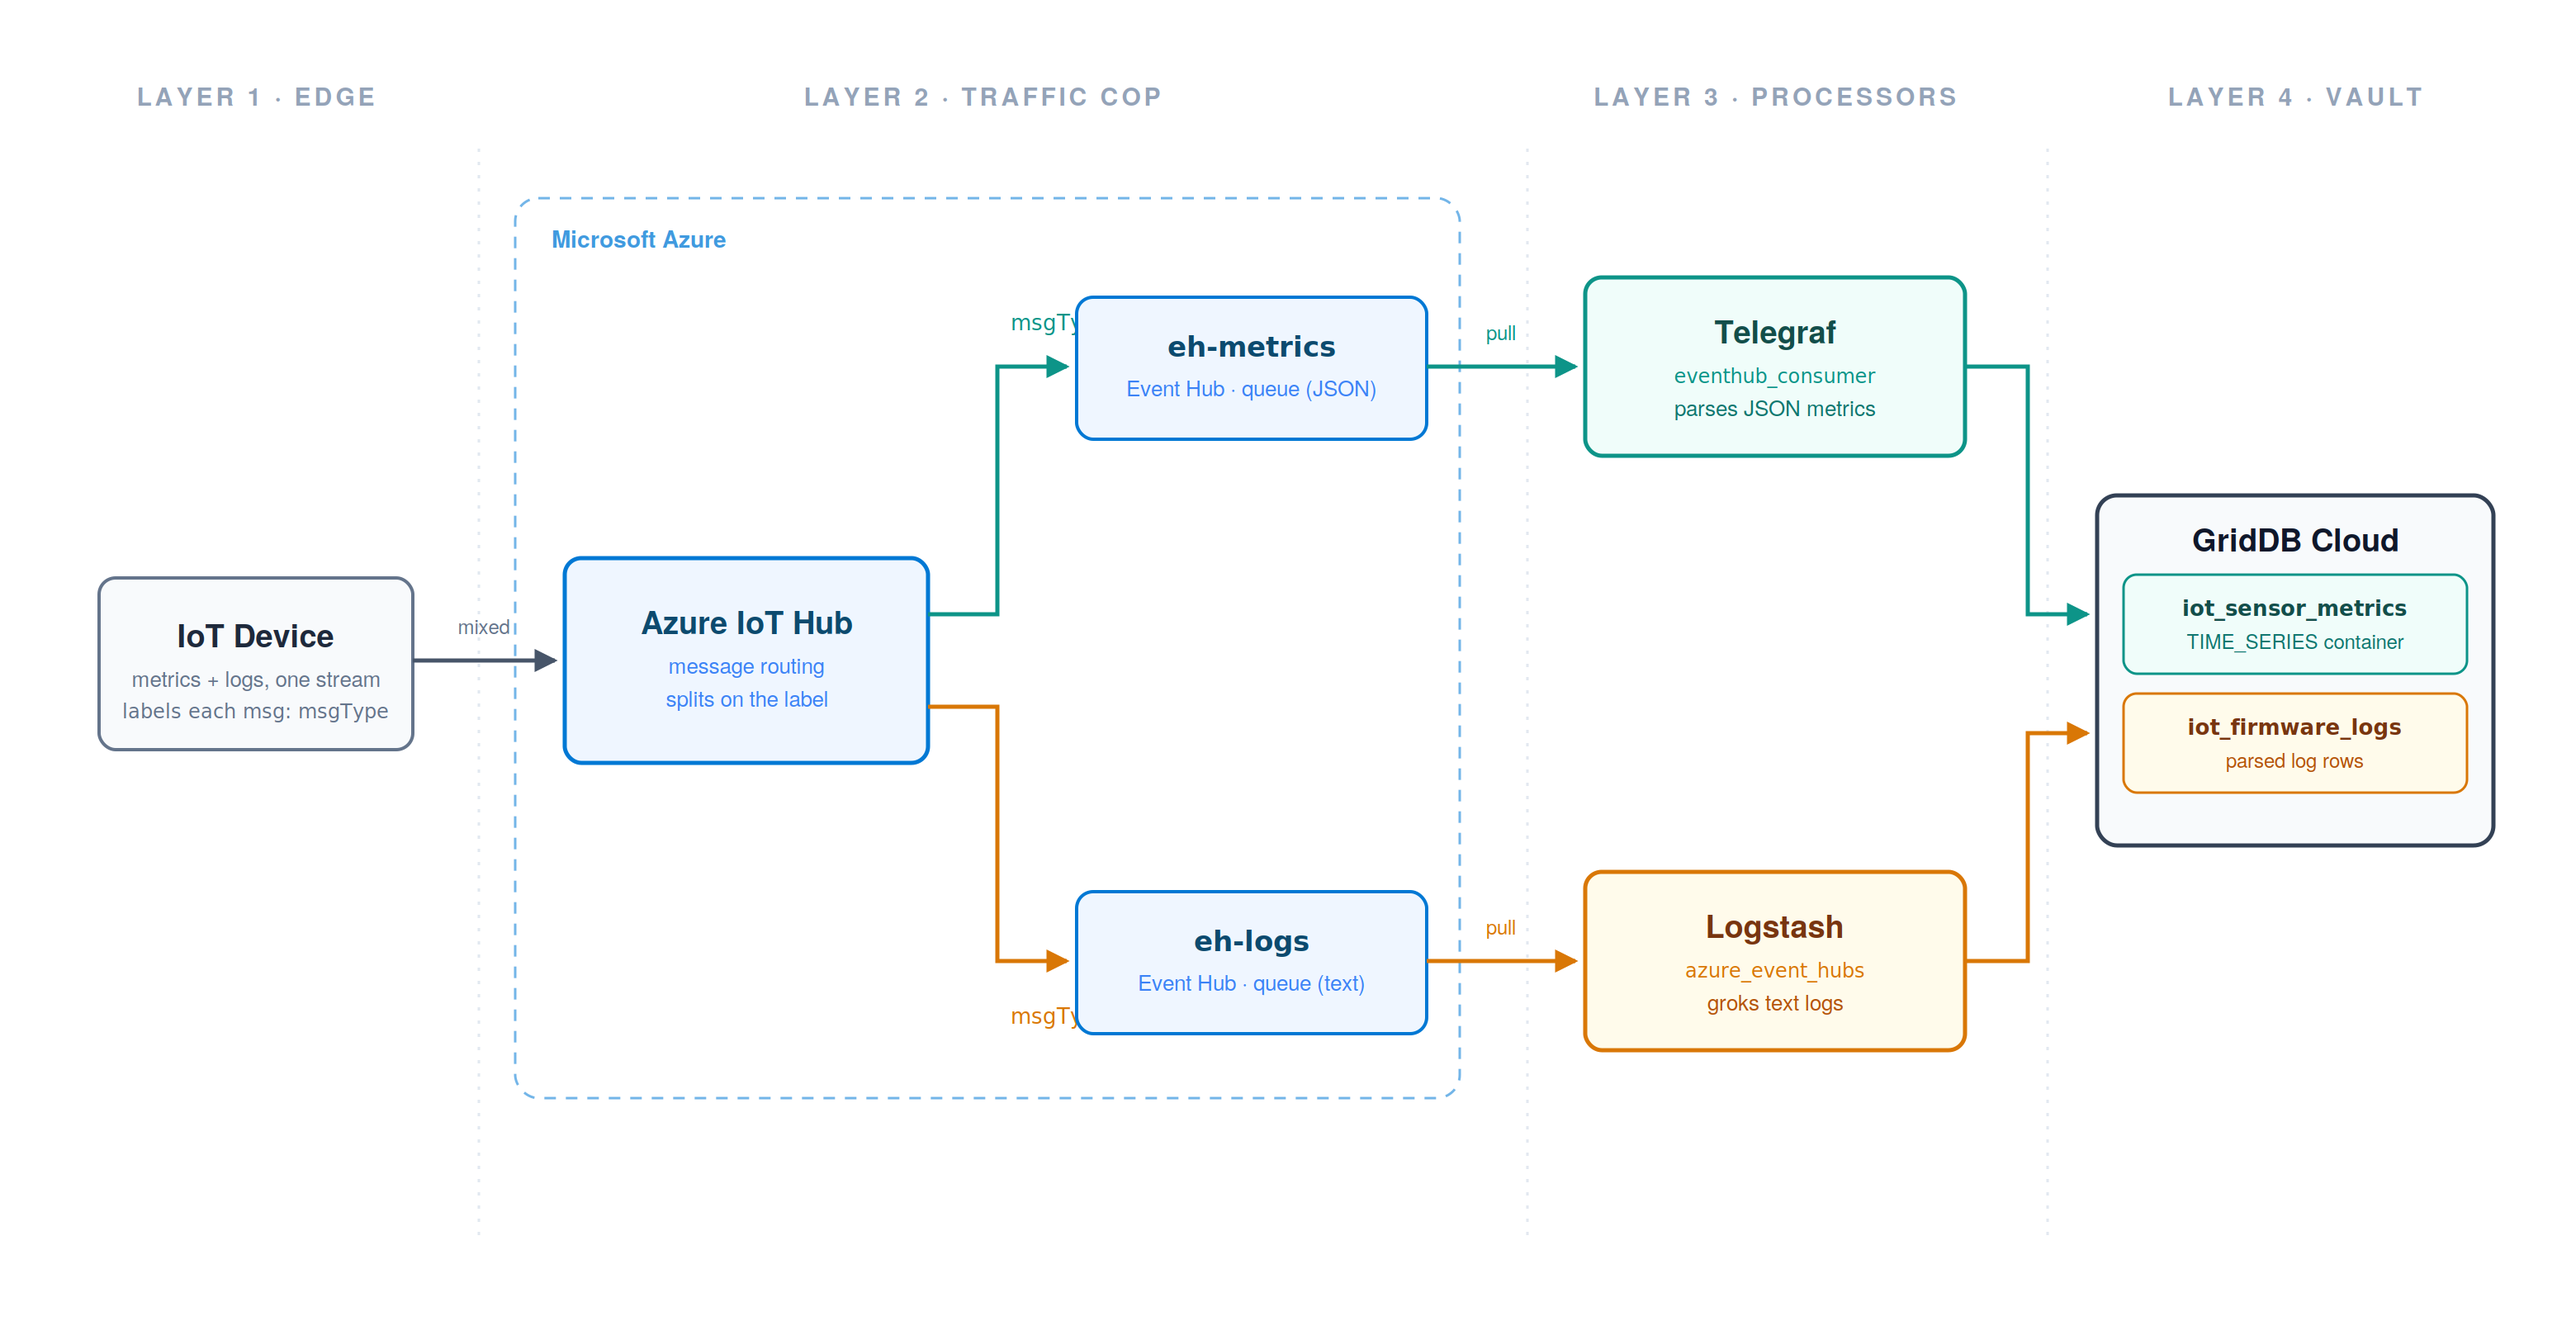
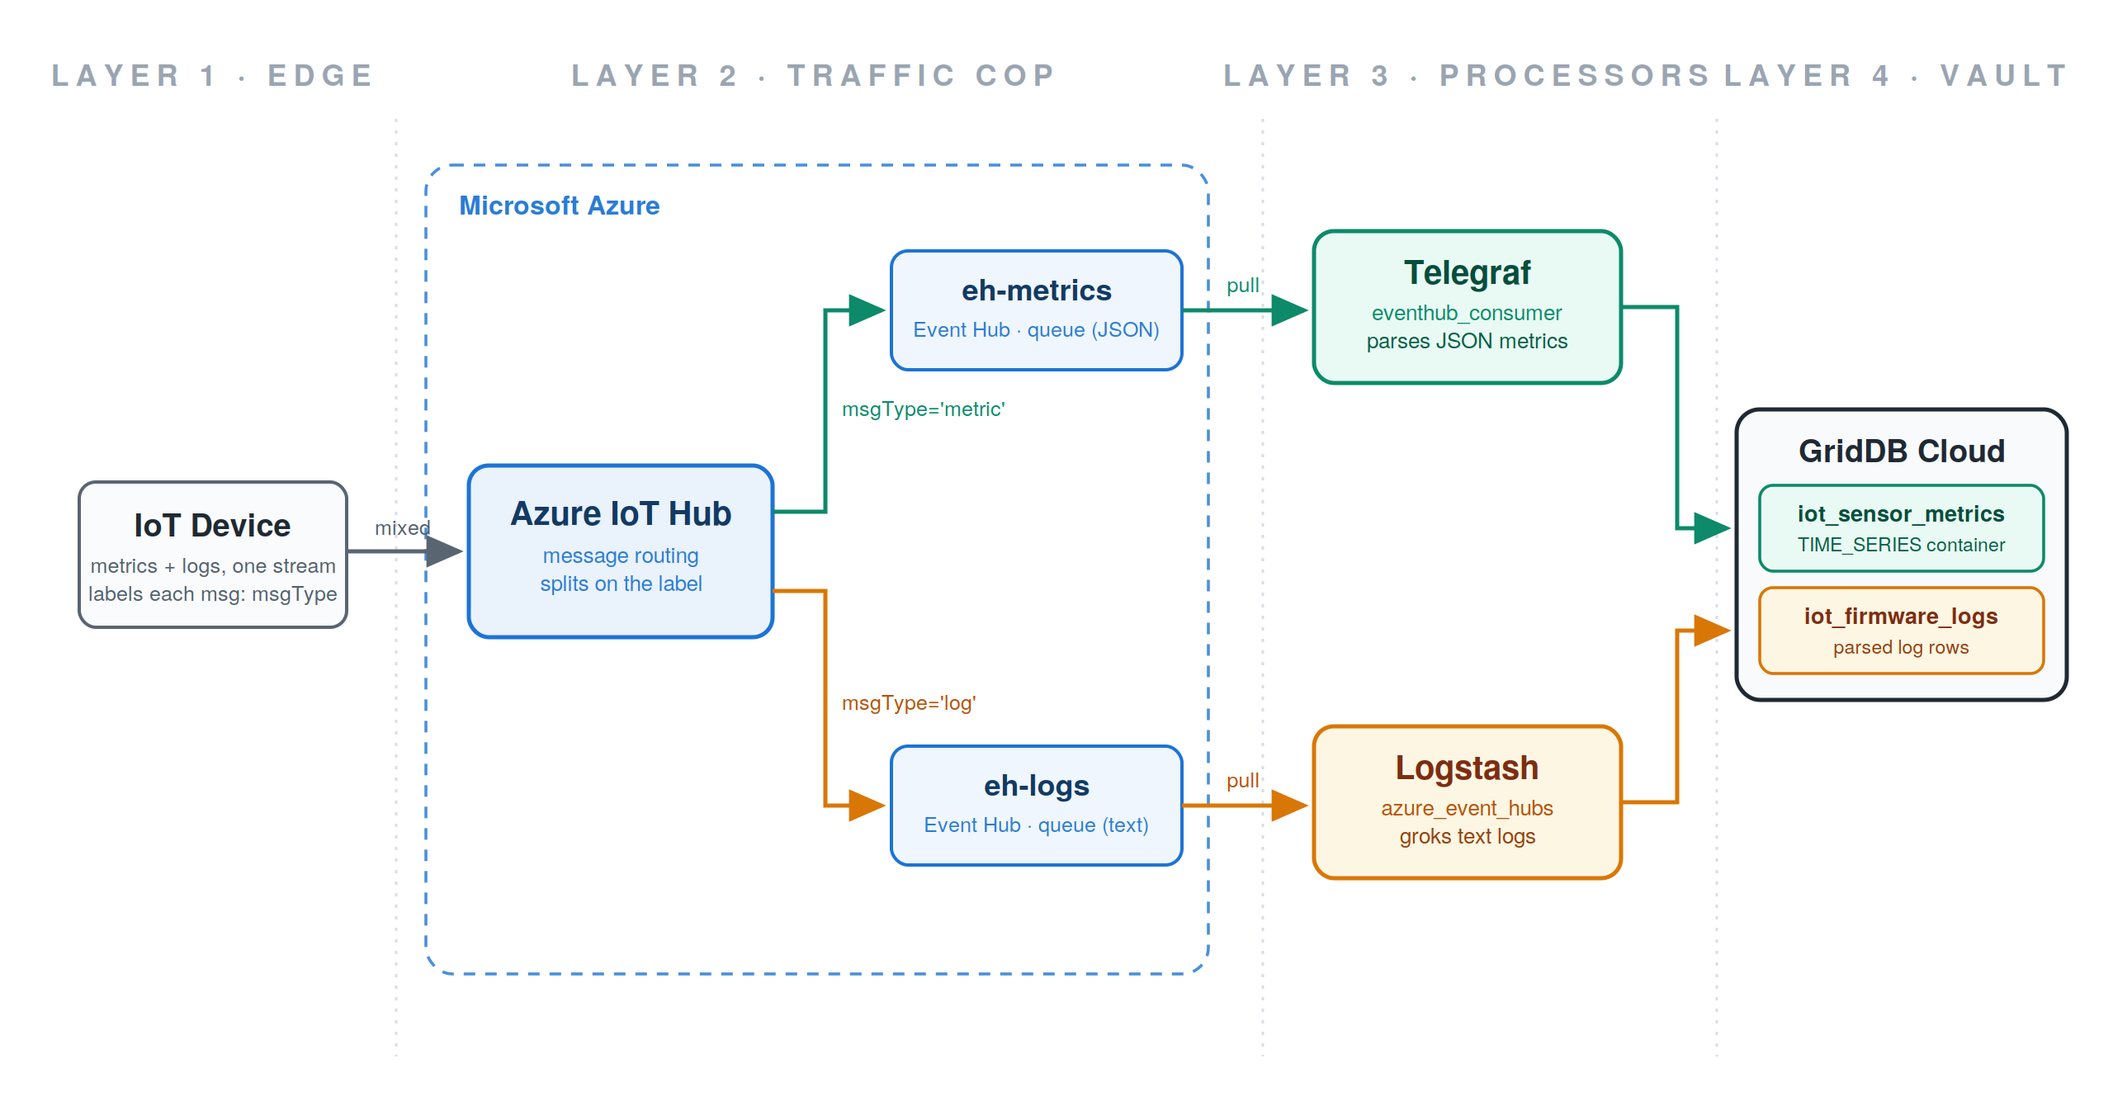
fixed the flow of the blog to better match the diagram. also fixed the diagram labeling

diff --git a/blog.md b/blog.md
@@ -1,6 +1,6 @@
 # One Device Stream, Two Pipelines: Routing IoT Metrics and Logs into GridDB Cloud with Azure IoT Hub, Telegraf, and Logstash
 
-IoT devices can be messy and unweildy. The same sensor that reports a clean temperature reading one second will spit out an ugly, text-based firmware error the next, with both arriving in the same stream. If you force a single tool to handle that mixed data input, you end up compromising somewhere: metrics agents are miserable at parsing free-form text, and log processors are wasteful for high-volume numeric data.
+IoT devices can be messy and unwieldy. The same sensor that reports a clean temperature reading one second will spit out an ugly, text-based firmware error the next, with both arriving in the same stream. If you force a single tool to handle that mixed data input, you end up compromising somewhere: metrics agents are miserable at parsing free-form text, and log processors are wasteful for high-volume numeric data.
 
 ![archeticture](architecture-diagram.png)
 
@@ -17,7 +17,7 @@ Though this blog uses the GridDB Web API, let's not forget about this recent rel
 
 ## The Architecture: Four Layers
 
-The architecture for this is a bit strange; it's been separated into four parts:
+The strength of this architecture is its clean separation of concerns: each of its four layers does exactly one job, using the tool best suited for it:
 
 **Layer 1 — Full data stream of mixed data (edge).** Devices emit both signal types into one stream: structured JSON metrics and unstructured text logs, interleaved. Each message carries a small label (`msgType`) declaring which kind it is.
 
@@ -35,30 +35,7 @@ device ──► Azure IoT Hub ─┤                                           
 
 The two Event Hubs in the middle are queues. The Azure IoT Hub pushes into them; Telegraf and Logstash pull from them at their own pace. That decoupling is what makes the pipeline resilient: if Logstash goes down for an hour, log messages simply pile up in `eh-logs` and get drained when it comes back. Nothing is lost and nothing blocks the devices.
 
-## Setting Up the Azure Side
-
-We will keep this section brief since the Azure resources are standard. You need:
-
-- **A resource group** to hold everything.
-- **An Event Hubs namespace** (Basic tier is fine — both consumers speak AMQP natively, so you do not need the Kafka-compatible endpoint that Standard tier adds) containing two event hubs: `eh-metrics` and `eh-logs`.
-- **Two authorization rules per event hub**: one with `Send` rights (used by IoT Hub's routing endpoints) and one with `Listen` rights (used by Telegraf and Logstash). Keeping them separate is necessary because mixing them up produces a very specific error.
-- **An IoT Hub** on the **B1 tier or above**. The free F1 tier allows only *one* custom routing endpoint, and this architecture needs two. IoT Hub names are also globally unique across Azure, so pick something distinctive.
-- **Two custom endpoints** on the IoT Hub, each pointing at one event hub via its `Send` connection string.
-- **Two message routes**, which are the heart of the whole design:
-
-```bash
-az iot hub message-route create -g <resource-group> -n <iot-hub-name> \
-  --route-name metrics-route --endpoint-name ep-metrics --source devicemessages \
-  --condition "msgType = 'metric'"
-
-az iot hub message-route create -g <resource-group> -n <iot-hub-name> \
-  --route-name logs-route --endpoint-name ep-logs --source devicemessages \
-  --condition "msgType = 'log'"
-```
-
-- **A device identity** for the simulator to authenticate as.
-
-Let's discuss a couple of issues up front: first, IoT Hub routing cannot inspect an arbitrary message body to decide "is this JSON or plain text" — body-based routing queries only work when the message declares `contentType = application/json` and `contentEncoding = utf-8`, and plain-text bodies are opaque to the routing engine entirely. The robust pattern is what we use here: the device stamps an application property (`msgType`) on every message and the routes filter on that property. Second, once you add custom routes, IoT Hub's fallback route to the built-in endpoint is disabled by default — any message that matches no route is dropped, so a typo in the property name fails silently. Third, on recent Azure CLI versions, creating an event hub on Basic tier requires passing `--cleanup-policy Delete --retention-time 24` together (the CLI's defaults request 7-day retention, which Basic rejects, while the retention flag alone trips a serialization error).
+The rest of this article walks through the layers in order, from the edge to the datastore.
 
 ## Layer 1: The Device Simulator
 
@@ -99,15 +76,40 @@ while True:
     time.sleep(3)
 ```
 
-Get the device connection string with:
+The device connection string comes from the device identity we will create as part of the Azure resources in Layer 2. Once the IoT Hub and device identity exist, fetch it with:
 
 ```bash
 az iot hub device-identity connection-string show -g <resource-group> -n <iot-hub-name> -d sensor-001 -o tsv
 ```
 
-Before wiring up either consumer, it is worth verifying the split with a throwaway script that reads each event hub directly (the `azure-eventhub` pip package makes this a ten-liner). You want to see *only* JSON blobs landing in `eh-metrics` and *only* text lines in `eh-logs`. Debugging the routing and the consumers at the same time is a miserable experience — confirm the iot hub router is doing its job first.
+## Layer 2: The Router — Azure IoT Hub
 
-## Layer 3a: Telegraf — The Metrics Lane
+We will keep this section brief since the Azure resources are standard. You need:
+
+- **A resource group** to hold everything.
+- **An Event Hubs namespace** (Basic tier is fine — both consumers speak AMQP natively, so you do not need the Kafka-compatible endpoint that Standard tier adds) containing two event hubs: `eh-metrics` and `eh-logs`.
+- **Two authorization rules per event hub**: one with `Send` rights (used by IoT Hub's routing endpoints) and one with `Listen` rights (used by Telegraf and Logstash). Keeping them separate is necessary because mixing them up produces a very specific error.
+- **An IoT Hub** on the **B1 tier or above**. The free F1 tier allows only *one* custom routing endpoint, and this architecture needs two. IoT Hub names are also globally unique across Azure, so pick something distinctive.
+- **Two custom endpoints** on the IoT Hub, each pointing at one event hub via its `Send` connection string.
+- **Two message routes**, which are the heart of the whole design:
+
+```bash
+az iot hub message-route create -g <resource-group> -n <iot-hub-name> \
+  --route-name metrics-route --endpoint-name ep-metrics --source devicemessages \
+  --condition "msgType = 'metric'"
+
+az iot hub message-route create -g <resource-group> -n <iot-hub-name> \
+  --route-name logs-route --endpoint-name ep-logs --source devicemessages \
+  --condition "msgType = 'log'"
+```
+
+- **A device identity** for the simulator to authenticate as.
+
+Let's discuss a couple of issues up front: first, IoT Hub routing cannot inspect an arbitrary message body to decide "is this JSON or plain text" — body-based routing queries only work when the message declares `contentType = application/json` and `contentEncoding = utf-8`, and plain-text bodies are opaque to the routing engine entirely. The robust pattern is what we use here: the device stamps an application property (`msgType`) on every message and the routes filter on that property. Second, once you add custom routes, IoT Hub's fallback route to the built-in endpoint is disabled by default — any message that matches no route is dropped, so a typo in the property name fails silently. Third, on recent Azure CLI versions, creating an event hub on Basic tier requires passing `--cleanup-policy Delete --retention-time 24` together (the CLI's defaults request 7-day retention, which Basic rejects, while the retention flag alone trips a serialization error).
+
+With the routes in place and the simulator from Layer 1 running, it is worth verifying the split with a throwaway script that reads each event hub directly (the `azure-eventhub` pip package makes this a ten-liner) before wiring up either consumer. You want to see *only* JSON blobs landing in `eh-metrics` and *only* text lines in `eh-logs`. Debugging the routing and the consumers at the same time is a miserable experience — confirm the iot hub router is doing its job first.
+
+## Layer 3A: Telegraf — The Metrics Lane
 
 [Telegraf](https://www.influxdata.com/time-series-platform/telegraf/) is InfluxData's metrics-collection agent. It offers hundreds of input plugins and dozens of output plugins for shipping collected metrics to a time-series store. The GridDB Telegraf plugin is one of those outputs, and conveniently, Telegraf also ships an `eventhub_consumer` *input* plugin whose primary use case is exactly this: consuming from Azure Event Hubs and IoT Hub.
 
@@ -196,7 +198,7 @@ With the simulator running, the debug log shows Telegraf writing batches within 
 
 ![alt text](image.png)
 
-## Layer 3b: Logstash — The Logs Lane
+## Layer 3B: Logstash — The Logs Lane
 
 Where Telegraf handles metrics, [Logstash](https://www.elastic.co/logstash) handles logs. It ingests unstructured text events, parses them into structured fields with its grok filter, and ships them to a destination of your choice. Our destination is GridDB Cloud, and our source is the `eh-logs` queue full of raw firmware error lines.
 
@@ -298,7 +300,7 @@ Startup takes 20–30 seconds. Because of `initial_position => "beginning"`, Log
 
 The resulting schema is clean: one self-documenting column per parsed field, and timestamps that reflect when each error actually occurred on the device.
 
-## What Lands in GridDB Cloud
+## Layer 4: The Datastore — What Lands in GridDB Cloud
 
 At this point the full pipeline is live. Two containers, each shaped by the tool that filled it:
 
@@ -421,4 +423,4 @@ Four layers, each doing one job:
 - **Telegraf and Logstash** each consume the lane they are built for — JSON parsing on one side, grok on the other.
 - **GridDB Cloud** stores both signals in purpose-built containers, side by side and queryable together.
 
-Compared to our Kafka-based OpenTelemetry pipeline, the striking thing about this one is what is missing: there is no bridge, no custom flattening code, no bespoke glue. IoT Hub's routing rules replace the splitting logic, and the official `eventhub_consumer` and `azure_event_hubs` input plugins replace the consuming logic. The GridDB Cloud v3.2 bundled plugin pack supplies both output plugins — one download, and every stage of a cross-cloud IoT pipeline is configuration rather than code.
+Compared to our Kafka-based OpenTelemetry pipeline, the striking thing about this one is what is missing: there is no bridge, no custom flattening code, no glue. IoT Hub's routing rules replace the splitting logic, and the official `eventhub_consumer` and `azure_event_hubs` input plugins replace the consuming logic. The GridDB Cloud v3.2 bundled plugin pack supplies both output plugins: one download, and every stage of a cross-cloud IoT pipeline is configuration rather than code.
